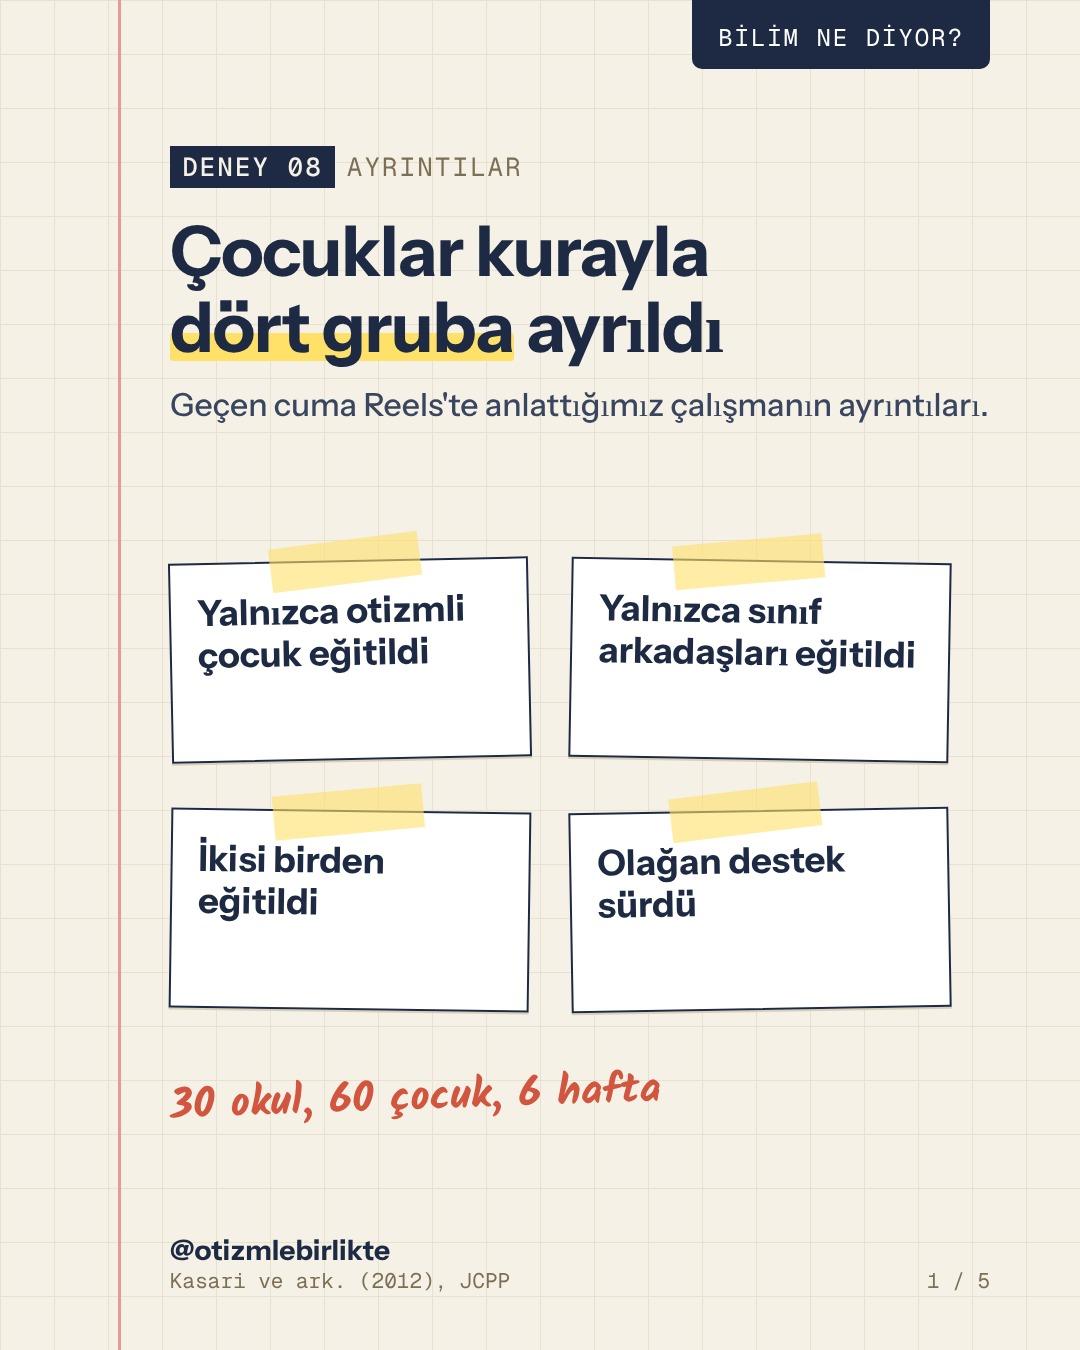
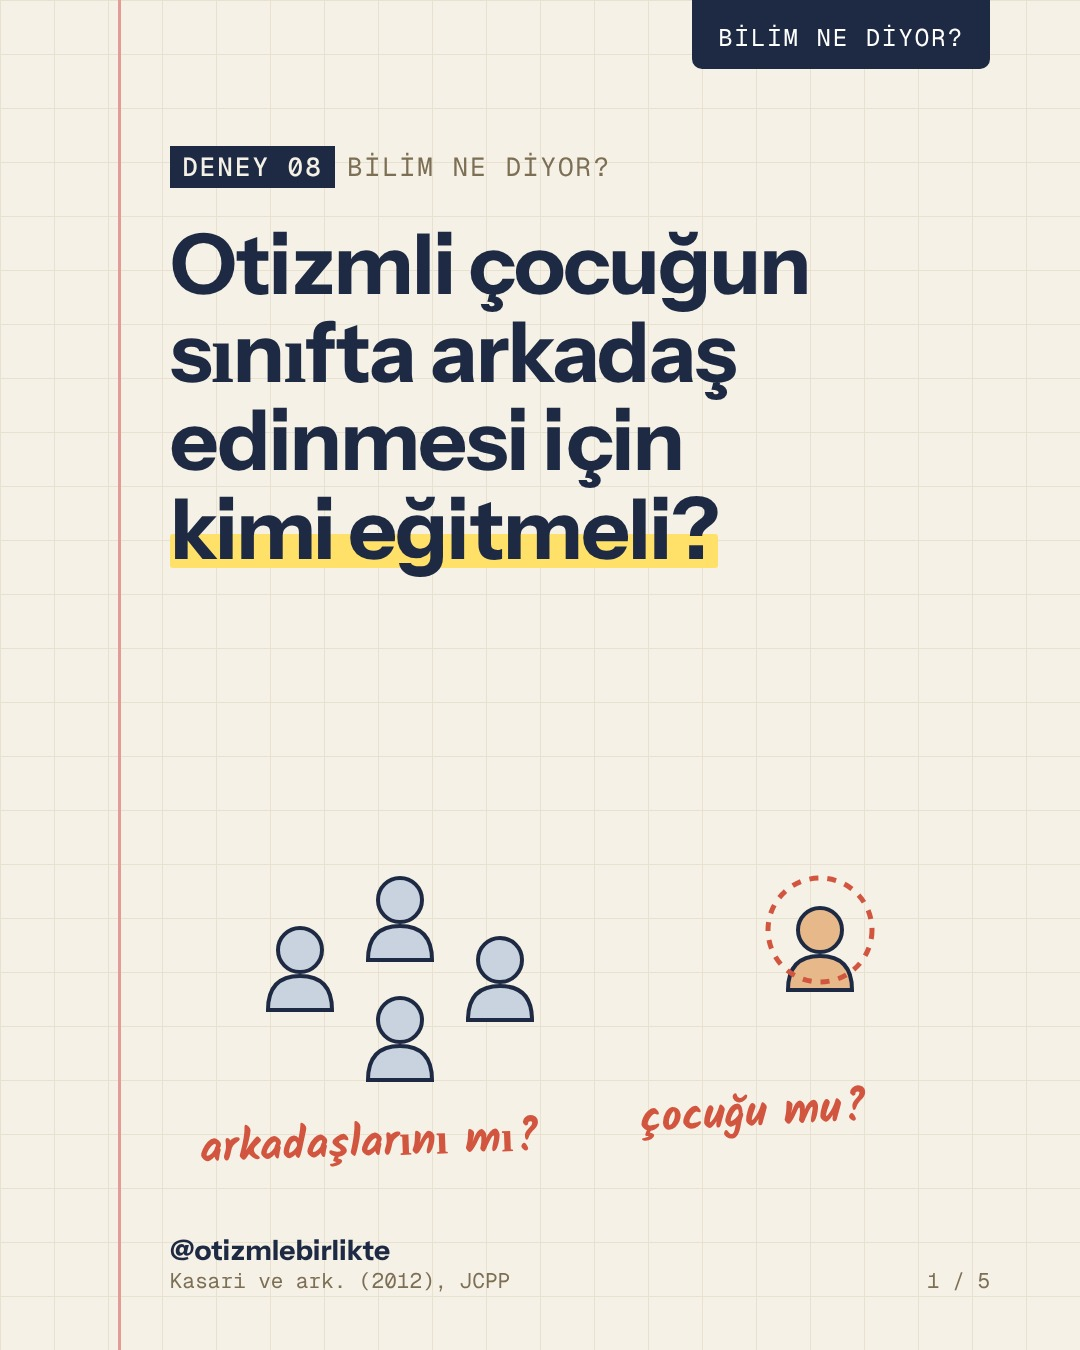
Kasari carousel: kendi başına anlaşılır giriş
Claude-Session: https://claude.ai/code/session_015beMNbZsbyyGaVakzaDU4y

diff --git a/_kimlik/c_kasari.py b/_kimlik/c_kasari.py
@@ -1,14 +1,21 @@
 import asyncio, sys
 from defter_c import *
 F = "Kasari ve ark. (2012), JCPP"
+kids = "".join(f'<g transform="translate({x} {y})" stroke="{INK}" stroke-width="4"><circle cx="0" cy="-60" r="22" fill="{c}"/><path d="M-32 0 Q-32 -34 0 -34 Q32 -34 32 0 Z" fill="{c}"/></g>'
+               for x, y, c in [(300, 1010, "#C9D3E0"), (400, 960, "#C9D3E0"), (500, 1020, "#C9D3E0"), (400, 1080, "#C9D3E0"), (820, 990, "#E7B98A")])
+kapak = doc("bnd", (f'<svg width="1080" height="1350" style="position:absolute;left:0;top:0">{kids}'
+    f'<circle cx="820" cy="930" r="52" fill="none" stroke="{RED}" stroke-width="5" stroke-dasharray="9 9"/></svg>'
+    f'<div class="w"><div class="no"><b>DENEY 08</b>BİLİM NE DİYOR?</div>'
+    f'<h1 style="font-size:84px">Otizmli çocuğun sınıfta arkadaş edinmesi için <span class="hl">kimi eğitmeli?</span></h1></div>'
+    f'<div class="hand" style="position:absolute;left:640px;top:1090px;font-size:44px;transform:rotate(-3deg)">çocuğu mu?</div>'
+    f'<div class="hand" style="position:absolute;left:200px;top:1120px;font-size:44px;transform:rotate(-2deg)">arkadaşlarını mı?</div>'), F, "1 / 5")
 pages = [
- p_kartlar("bnd", "DENEY 08", "AYRINTILAR", 'Çocuklar kurayla <span class="hl">dört gruba</span> ayrıldı',
+ kapak,
+ p_kartlar("bnd", "DENEY", "NASIL YAPILDI?", 'Bunu anlamak için 60 çocuk <span class="hl">dört gruba</span> ayrıldı',
    ["Yalnızca otizmli çocuk eğitildi", "Yalnızca sınıf arkadaşları eğitildi", "İkisi birden eğitildi", "Olağan destek sürdü"],
-   note="30 okul, 60 çocuk, 6 hafta", lead="Geçen cuma Reels'te anlattığımız çalışmanın ayrıntıları.", foot=F, page="1 / 5"),
- p_rakam("bnd", "SONUÇ", "KALICILIK", "Fark ne kadar sürdü?", "3 ay",
-   note="3 ay sonra bile sürüyordu, ama yalnızca sınıf arkadaşlarının eğitildiği gruplarda", foot=F, page="2 / 5"),
- p_karsilastirma("bnd", "MİT Mİ?", "KARŞILAŞTIRMA", 'Önce <span class="hl">kimi</span> eğitmeli?',
-   "Önce otizmli çocuğa sosyal beceri öğretmek gerekir.", "Fark, sınıf arkadaşları eğitilince ortaya çıktı.", foot=F, page="3 / 5"),
+   note="30 okul, 1.–5. sınıflar, 6 hafta", foot=F, page="2 / 5"),
+ p_rakam("bnd", "SONUÇ", "NE ÇIKTI?", 'Fark yalnızca <span class="hl">arkadaşları</span> eğitilince çıktı', "3 ay",
+   note="sonra bile sürüyordu", small="Otizmli çocuklar sınıfta daha çok arkadaşla bağ kurdu ve teneffüste daha az yalnız kaldı. Yalnızca çocuğa verilen eğitim tek başına bu farkı yaratmadı.", foot=F, page="3 / 5"),
  p_kontrol("ogretmen", "LİSTE", "SINIFTA", 'Sınıfta <span class="hl">denemek</span> isterseniz',
    ["İki üç gönüllü öğrenci seçin", "Onlara arkadaşlarını oyuna nasıl çağıracaklarını gösterin", "Bir hafta boyunca teneffüste kimin kiminle oynadığını not alın"],
    foot="Öğretmen Köşesi", page="4 / 5"),
